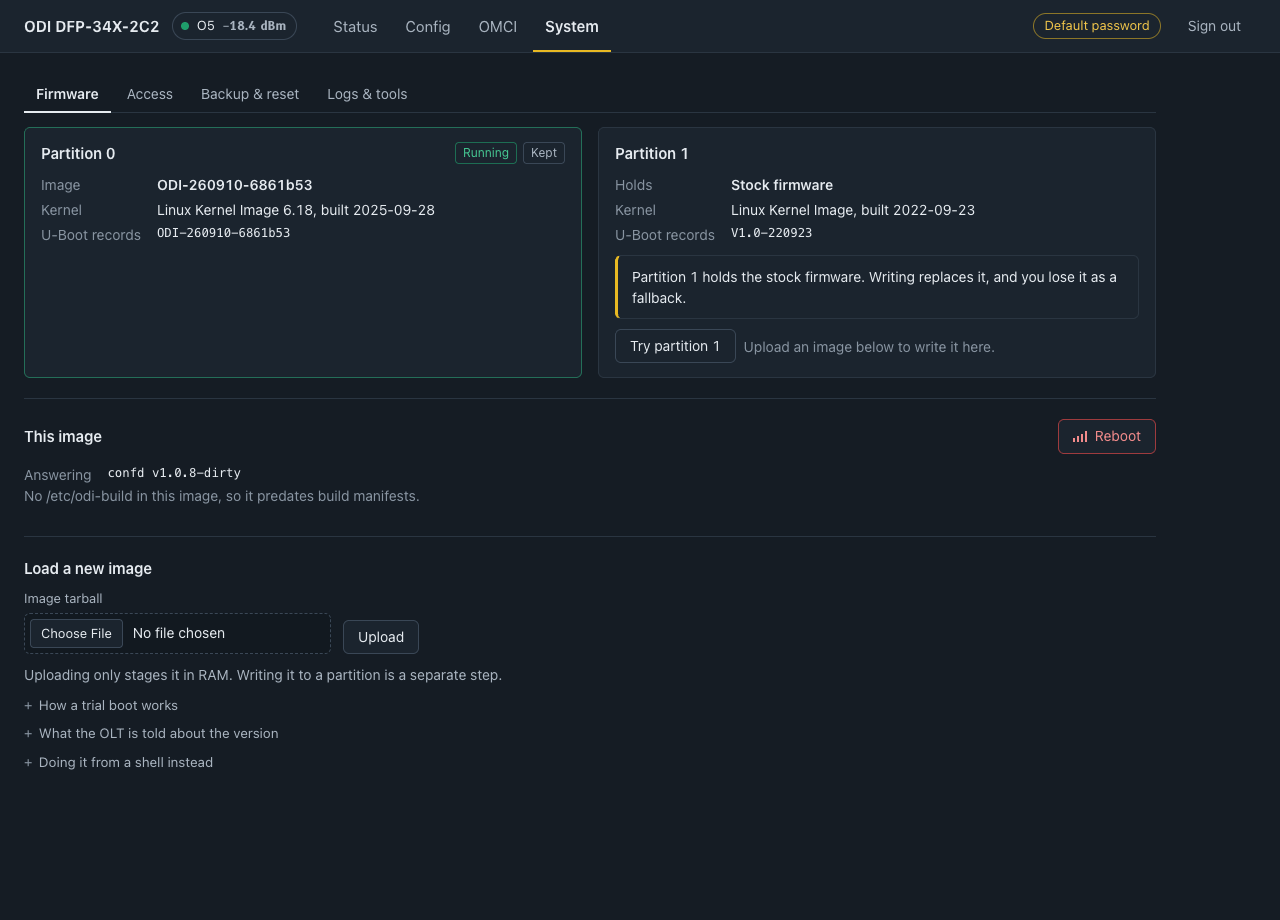
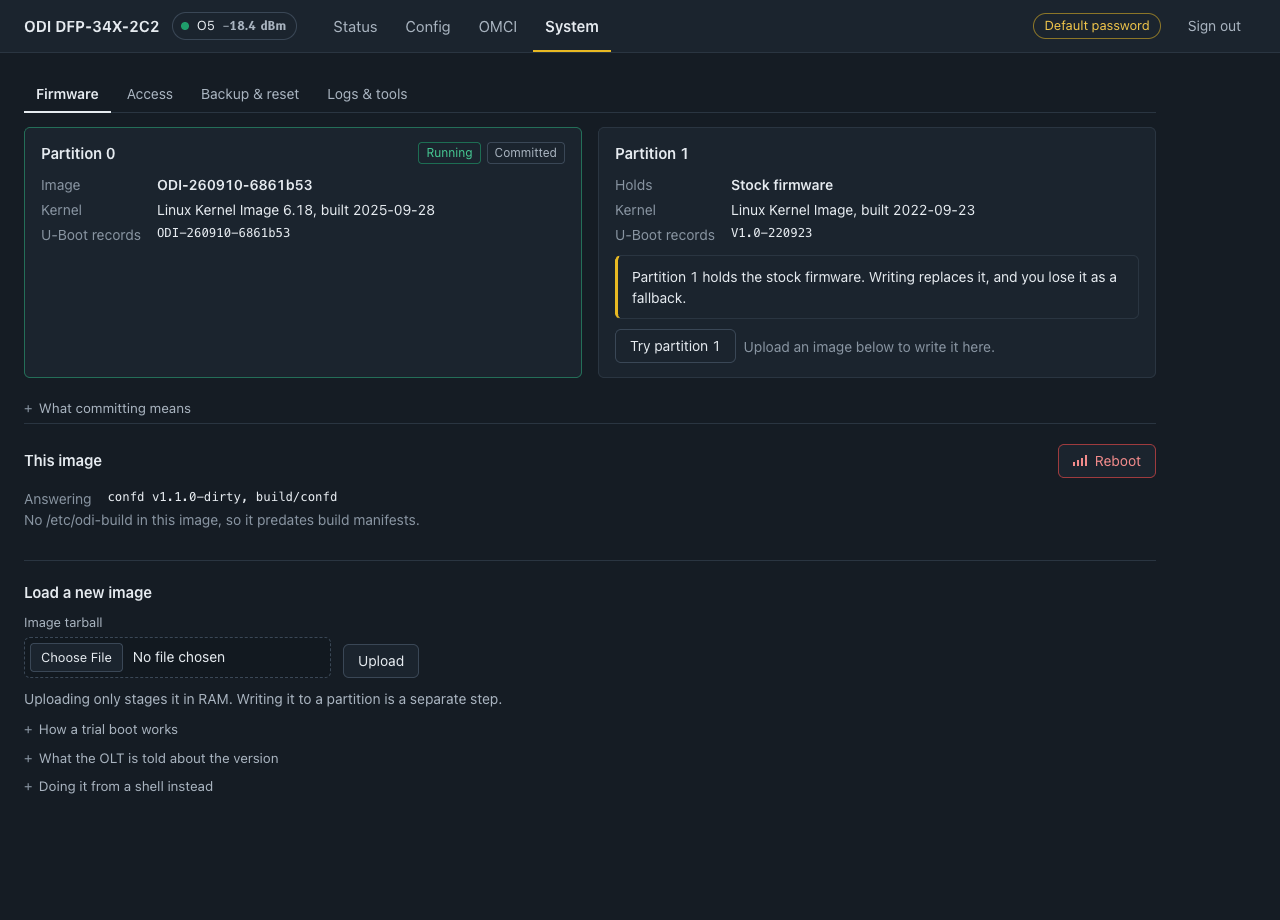
UI polish after v1.1.0: commit wording, generic trial band, T-CONTs
From a live review of v1.1.0 on claro:

- "Keep" becomes "Commit" everywhere: Commit to this image in the trial
  band, Commit to partition N on the running slot, a Committed badge,
  and confirmations that say a committed image which later fails keeps
  booting itself. "What committing means", under the partitions, covers
  the default boot, the one-shot trial, and checking before committing.
- The trial band makes no claim about the other partition, which is not
  always the stock firmware: it says the image is not committed and
  which partition the next reboot returns to.
- The receive readout is 52 px at most (was 76), closer to transmit.
- Forwarding rates show at most two decimals; below 1 kB/s the float
  was printed whole.
- T-CONTs with Alloc-ID 255 (G.988 9.2.2: no Alloc-ID assigned; 65535 on
  later PONs) are unassigned, not provisioned: "5 assigned" and "11
  unassigned", not "16 provisioned".

diff --git a/web/firmware.js b/web/firmware.js
@@ -2,7 +2,7 @@
  * The Firmware tab: which partition is which, and the one-shot trial boot.
  *
  * sw_tryactive boots a partition ONCE with the watchdog armed, so an image that
- * does not come up reverts itself. Keeping it is a separate, deliberate act.
+ * does not come up reverts itself. Committing it is a separate, deliberate act.
  */
 
 import { $, el, fail, get, bytes } from './dom.js';
@@ -17,6 +17,7 @@ const WRITE_POLL_MS = 3000;
  * what should NOT quietly become writable with one click.
  */
 let UPLOADED = null;
+let COMMIT_WHY = null;
 
 /*
  * Upload. XHR rather than fetch, for the one thing fetch cannot do: report
@@ -196,7 +197,7 @@ async function renderFirmware() {
     head.append(el('h2', null, 'Partition ' + p));
     const tags = el('span', 'slot-tags');
     if (p === booted) tags.append(el('span', 'tag live', 'Running'));
-    if (p === committed) tags.append(el('span', 'tag', 'Kept'));
+    if (p === committed) tags.append(el('span', 'tag', 'Committed'));
     if (p === pending && pending !== '2') tags.append(el('span', 'tag warn', 'Trial pending'));
     head.append(tags);
     card.append(head);
@@ -226,20 +227,20 @@ async function renderFirmware() {
         + '. Writing replaces it, and you lose it as a fallback.'));
     }
     /* Try only the slot you are NOT running: a trial of the running one
-       boots what is already up. Keeping the running slot is the same act
-       as the trial banner Keep this image, and goes through the same code. */
+       boots what is already up. Committing the running slot is the same act
+       as the trial banner Commit to this image, and goes through the same code. */
     if (p !== committed && p !== booted) {
       const b = el('button', null, 'Try partition ' + p);
       b.type = 'button';
       b.onclick = () => fwAction('try', p,
         `Partition ${p} will boot once, at the next reboot. If it fails, the stick `
-        + `returns to partition ${committed} on its own.`);
+        + `returns to partition ${committed}, the committed one, on its own.`);
       acts.append(b);
     }
     if (p !== committed && p === booted) {
-      const b = el('button', 'primary', 'Keep this image');
+      const b = el('button', 'primary', 'Commit to partition ' + p);
       b.type = 'button';
-      b.onclick = () => keepRunning();
+      b.onclick = () => commitRunning();
       acts.append(b);
     }
     /*
@@ -263,6 +264,11 @@ async function renderFirmware() {
     grid.append(card);
   }
   host.append(grid);
+  /* The explanation sits right under the partitions it is about. It is
+     static markup in index.html, held here because the host is rebuilt on
+     every render and would otherwise drop it. */
+  COMMIT_WHY = COMMIT_WHY || $('#commit-why');
+  if (COMMIT_WHY) host.append(COMMIT_WHY);
 
   /* Spell the commands out with this stick's own address and the partition it
      is not running, so they can be pasted without being adapted. */
@@ -354,7 +360,7 @@ async function fwAction(action, partition, warning) {
         `Partition ${partition} is armed for one boot. Reboot to try it; if it ` +
         `does not come up the stick returns here on its own.`));
     } else if (action === 'commit') {
-      out.append(el('div', 'good', `Partition ${partition} is now the one it boots.`));
+      out.append(el('div', 'good', `Committed: partition ${partition} is now the one it boots.`));
     } else {
       out.append(el('div', 'warn', 'Rebooting. This page will stop responding.'));
     }
@@ -395,32 +401,34 @@ function renderTrial() {
   const holds = { odi: 'an odi-oss image', stock: 'the stock firmware', other: 'an image that is not odi-oss',
                   unknown: 'an image this page cannot identify' }[k.kind];
   const rec = env['sw_version' + back];
+  /* Generic on purpose: no claim about what the other slot holds. It is not
+     always the stock firmware, and System > Firmware says what it is. */
   $('#trial-what').textContent = main !== run
-    ? `This image, on partition ${run}, is not kept: the next reboot returns to partition ${back}, `
-      + `which holds ${holds}${rec ? ' (U-Boot records ' + rec + ')' : ''}.`
-    : `Partition ${run} is kept in the active U-Boot copy, but the fallback copy still names `
-      + `partition ${back} (${holds}). If the active copy is ever lost, the stick boots that.`;
+    ? `This image (partition ${run}) is not committed. The next reboot returns to partition ${back}.`
+    : `Partition ${run} is committed in the active U-Boot copy, but the fallback copy still names `
+      + `partition ${back}. If the active copy is ever lost, the stick boots that.`;
 
-  const keep = $('#trial-keep');
-  keep.hidden = main === run;
-  keep.onclick = () => keepRunning();
+  const commit = $('#trial-commit');
+  commit.hidden = main === run;
+  commit.onclick = () => commitRunning();
 }
 
 /*
- * Keep the running image: sw_commit to the running slot. One path, used by
+ * Commit to the running image: sw_commit to the running slot. One path, used by
  * the trial banner and by the running slot on the Firmware subtab, so the
  * two cannot drift into saying or doing different things.
  */
-async function keepRunning() {
+async function commitRunning() {
   const env = (S.FW || {}).env || {};
   const run = env.sw_active;
   const back = env.sw_commit;
   const out = $('#trial-out');
   out.textContent = '';
   if (run === undefined) return;
-  if (!confirm(`Keep partition ${run}?\n\nIt becomes the one the stick boots from now on`
-      + (back !== undefined && back !== run ? `, instead of partition ${back}.` : '.'))) return;
-  const btn = $('#trial-keep');
+  if (!confirm(`Commit to partition ${run}?\n\nIt becomes the one the stick boots by default`
+      + (back !== undefined && back !== run ? `, instead of partition ${back}.` : '.')
+    + ' If it later fails to come up, the stick keeps booting it: there is no trial to fall back from.')) return;
+  const btn = $('#trial-commit');
   btn.disabled = true;
   try {
     const r = await fetch('/api/firmware', {
@@ -429,11 +437,11 @@ async function keepRunning() {
       body: 'action=commit&partition=' + encodeURIComponent(run),
     });
     const res = await r.json();
-    if (!res.ok) { out.append(el('div', 'bad', res.error || 'not kept')); return; }
+    if (!res.ok) { out.append(el('div', 'bad', res.error || 'not committed')); return; }
     S.FW = await get('/api/firmware');
     renderTrial();
     if (!$('#trialbanner').hidden) {
-      out.append(el('div', null, 'Kept in the active copy. confd writes only that one; '
+      out.append(el('div', null, 'Committed in the active copy. confd writes only that one; '
         + `over SSH, nv setenv -c <copy> sw_commit ${run} makes the fallback agree.`));
     }
     if (!$('#p-system').hidden) await renderFirmware();

diff --git a/web/services.js b/web/services.js
@@ -33,7 +33,7 @@ const CARDS = [
   { me: '171', title: 'VLAN translation',               render: renderExtVlan },
   { me: '47',  title: 'How this line is bridged',       render: renderBridge },
   { me: '262', title: 'Upstream containers (T-CONT)',   render: renderIds, onu: true,
-    key: 'AllocID', what: 'allocation id' },
+    key: 'AllocID', what: 'allocation id', unassigned: [255, 65535] },
   { me: '268', title: 'GEM ports',                      render: renderIds, key: 'PortID', what: 'GEM port id' },
 ];
 /*
@@ -112,7 +112,7 @@ function renderSwImage(box, dump) {
     const com = Number(attr(inst, 'Committed'));
     const tags = [];
     if (act === 1) tags.push('running');
-    if (com === 1) tags.push('kept');
+    if (com === 1) tags.push('committed');
     dl.append(el('dt', '', 'Image ' + (inst.id || '?')),
               el('dd', '', ver + (tags.length ? ' (' + tags.join(', ') + ')' : '')));
   }
@@ -320,14 +320,35 @@ function renderBridge(box, dump) {
    identifier a support thread asks for is the allocation or port id, not the
    entity id, so that is what is listed when the dump carries it. */
 function renderIds(box, dump, card) {
-  const ids = dump.instances.map((i) => {
+  const vals = dump.instances.map((i) => {
     const v = card && card.key ? attr(i, card.key) : null;
-    return v !== null && v !== '' && Number.isFinite(Number(v)) ? String(Number(v)) : i.id;
-  }).filter(Boolean);
-  const n = ids.length;
-  box.append(el('p', 'me-lead', n + ' provisioned'
-    + (card && card.key && dump.instances.some((i) => attr(i, card.key) !== null)
-      ? ', by ' + card.what : '') + ': ' + ids.join(', ')));
+    return v !== null && v !== '' && Number.isFinite(Number(v)) ? Number(v) : null;
+  });
+  /*
+     The ONU creates every T-CONT it has at MIB reset, with no Alloc-ID; the
+     OLT assigns one to each T-CONT it uses. G.988 (9.2.2) gives 255 as "no
+     Alloc-ID assigned" on G.984 GPON, and 65535 on the later PON families.
+     Counting those as provisioned turned five T-CONTs into sixteen.
+  */
+  const free = new Set(card && card.unassigned || []);
+  const used = [];
+  let spare = 0;
+  dump.instances.forEach((inst, i) => {
+    if (vals[i] === null) used.push(inst.id);
+    else if (free.has(vals[i])) spare++;
+    else used.push(String(vals[i]));
+  });
+  const by = card && card.key && vals.some((v) => v !== null) ? ', by ' + card.what : '';
+  if (!used.length) {
+    box.append(el('p', 'me-lead', 'None assigned'));
+  } else {
+    box.append(el('p', 'me-lead', used.length + (free.size ? ' assigned' : ' provisioned')
+      + by + ': ' + used.join(', ')));
+  }
+  if (spare) {
+    box.append(note(spare + ' unassigned: created by the ONU, not given an '
+      + card.what + ' by the OLT.'));
+  }
 }
 
 /* --- the page ------------------------------------------------------------ */

diff --git a/web/index.html b/web/index.html
@@ -40,7 +40,7 @@
        as U-Boot would boot another partition next. Not dismissible. -->
   <div id="trialbanner" class="trial" role="status" hidden>
     <p><strong>Trial boot.</strong> <span id="trial-what"></span></p>
-    <button id="trial-keep" class="primary" type="button">Keep this image</button>
+    <button id="trial-commit" class="primary" type="button">Commit to this image</button>
     <div id="trial-out"></div>
   </div>
 </header>
@@ -202,6 +202,19 @@
     <!-- Firmware -->
     <div class="sub" id="s-firmware" role="tabpanel" aria-labelledby="st-system-firmware" data-sub="firmware">
       <div id="parts"></div>
+      <details class="more" id="commit-why">
+        <summary>What committing means</summary>
+        <p>U-Boot boots the <strong>committed</strong> partition by default, every
+           time: the one marked Committed above (<code>sw_commit</code>).</p>
+        <p>A trial boot is one-shot. Trying a partition boots it once; the next
+           reboot, whether the image came up or not, returns to the committed
+           partition.</p>
+        <p>Committing makes the running image the default, so it is what every
+           later reboot comes back to.</p>
+        <p>A committed image that later fails keeps booting itself: there is no
+           trial left to fall back from. Check that it registers and carries
+           traffic before you commit to it.</p>
+      </details>
 
       <section class="block">
         <h2>Load a new image</h2>
@@ -216,9 +229,9 @@
           <summary>How a trial boot works</summary>
           <p>Trying a partition boots it <strong>once</strong>, with the hardware
              watchdog armed. If the image does not come up, the stick returns by
-             itself to whichever partition is kept &mdash; no console, no
+             itself to whichever partition is committed &mdash; no console, no
              intervention. A trial that boots fine still reverts at the next
-             reboot, so keeping it is a separate decision you make after seeing
+             reboot, so committing to it is a separate decision you make after seeing
              it work.</p>
           <p>Writing takes about eighty seconds and runs on the stick by itself:
              this page follows it, and closing the page does not stop it. Do not

diff --git a/web/style.css b/web/style.css
@@ -335,9 +335,9 @@ h3.sec { margin: 24px 0 0; padding-bottom: 6px; color: var(--ink-2); font-size: 
 .m-verdict { font-size: 13px; font-weight: 600; color: var(--state); }
 .m-verdict::before { content: ""; display: inline-block; width: 7px; height: 7px; border-radius: 50%; background: currentColor; margin-right: 6px; vertical-align: 1px; }
 .m-read { display: flex; align-items: baseline; gap: 10px; margin: 2px 0 12px; }
-.m-read .num { font: 700 clamp(48px, 7vw, 76px)/1 var(--readout); letter-spacing: -0.02em; color: var(--ink); }
-.m-read .unit { font: 700 18px var(--readout); color: var(--ink-3); }
-#tx .m-read .num { font-size: clamp(34px, 4.4vw, 46px); }
+.m-read .num { font: 700 clamp(38px, 4.6vw, 52px)/1 var(--readout); letter-spacing: -0.02em; color: var(--ink); }
+.m-read .unit { font: 700 16px var(--readout); color: var(--ink-3); }
+#tx .m-read .num { font-size: clamp(32px, 3.8vw, 44px); }
 
 .instrument { position: relative; padding-bottom: 36px; }
 .scale { position: relative; height: 30px; border-radius: 3px; background: var(--well); border: 1px solid var(--line); }

diff --git a/web/dom.js b/web/dom.js
@@ -31,7 +31,10 @@ const bytes = (n) => {
   const u = ['B', 'kB', 'MB', 'GB', 'TB'];
   let i = 0;
   while (n >= 1000 && i < u.length - 1) { n /= 1000; i++; }
-  return (i ? n.toFixed(n < 10 ? 2 : 1) : String(n)) + ' ' + u[i];
+  /* At most two decimals at any scale. A rate is a byte count over a
+     fractional interval, so below 1 kB it used to print the float whole
+     (123.456789 B/s). */
+  return (i ? n.toFixed(n < 10 ? 2 : 1) : String(Math.round(n * 100) / 100)) + ' ' + u[i];
 };
 
 export { $, el, fail, get, bytes };

diff --git a/docs/DESIGN.md b/docs/DESIGN.md
@@ -95,8 +95,10 @@ chip in the header on every other view.
 A **trial boot** is a different thing and looks it: a full-width band in the
 sticky header, on every view, for as long as U-Boot would boot another
 partition next -- `sw_commit`, in either copy of the redundant environment,
-naming a slot other than the running one. It says where the next reboot goes
-and what that slot holds, and offers *Keep this image*, which is the existing
+naming a slot other than the running one. It says only that this image is
+not committed and which partition the next reboot returns to -- what that
+partition holds is on System > Firmware, not claimed in the band, since it is
+not always the stock firmware -- and offers *Commit to this image*, which is the existing
 `action=commit` (`nv setenv sw_commit <slot>`). It cannot be dismissed. The
 commit writes only the winning environment copy; when only the fallback copy
 disagrees the band says so, and says how to make it agree over SSH.
@@ -333,13 +335,13 @@ scripts/classify-apply.py /path/to/squashfs-root schema/keys.tsv > schema/consum
 
 ## Firmware
 
-Shows both partitions, their versions, which one is kept and which is running,
+Shows both partitions, their versions, which one is committed and which is running,
 and offers the two actions that matter:
 
 - **Try** arms `sw_tryactive`, which boots that partition **once** with the
   hardware watchdog armed. If the image does not come up, the stick returns by
-  itself to whichever partition is kept — no console, no intervention.
-- **Keep** writes `sw_commit`, and is a separate decision made *after* seeing
+  itself to whichever partition is committed — no console, no intervention.
+- **Commit** writes `sw_commit`, and is a separate decision made *after* seeing
   the trial work. A trial that boots fine still reverts on the next reboot.
 
 Writing `sw_commit` up front instead is what every runbook for this device used
@@ -362,7 +364,10 @@ overwritten: the kernel name, its build date and what U-Boot records.
 
 Try is offered only for the slot the stick is not running, and only when that
 slot is not already the committed one; the running, uncommitted slot offers
-*Keep this image*, the same code path as the trial band. The page calls the
+*Commit to partition N*, the same code path as the trial band's *Commit to this
+image*. "What committing means", under the partitions, says which partition
+U-Boot boots by default, that a trial is one-shot, and that a committed image
+which later fails keeps booting itself. The page calls the
 answering confd an override by the path it was started from (`exe`, argv[0]:
 `/etc/config/confd/` for a `scripts/deploy.sh` install, `/bin/confd` for the
 image copy), never by comparing build ids: a local image build stamps

diff --git a/CHANGELOG.md b/CHANGELOG.md
@@ -6,6 +6,28 @@ The format is based on [Keep a Changelog](https://keepachangelog.com/en/1.1.0/).
 
 ## Unreleased
 
+### Changed
+- "Keep" is now "Commit" everywhere: the trial banner offers Commit to this
+  image, the running slot Commit to partition N, the default slot is badged
+  Committed, and the confirmations say what committing means. System >
+  Firmware explains it under the partitions (What committing means): U-Boot
+  boots the committed partition by default, a trial is one-shot, committing
+  makes the running image the default, and a committed image that later fails
+  keeps booting itself.
+- The trial banner no longer says what the other partition holds (it is not
+  always the stock firmware): "This image (partition 1) is not committed. The
+  next reboot returns to partition 0." System > Firmware shows what each holds.
+- The receive readout is smaller (52 px at most, was 76), closer to transmit
+  (44 px), so it leads the Status page without dominating it.
+
+### Fixed
+- Forwarding rates show at most two decimals; below 1 kB/s they printed the
+  raw float.
+- OMCI > Services: T-CONTs with Alloc-ID 255 (G.988: no Alloc-ID assigned on
+  G.984; 65535 on later PONs) are counted as unassigned, not provisioned, so
+  a line with five in use reads "5 assigned: 282, 794, 1050, 1306, 538" and
+  "11 unassigned" instead of "16 provisioned".
+
 ## v1.1.0 - 2026-09-29
 
 ### Changed
